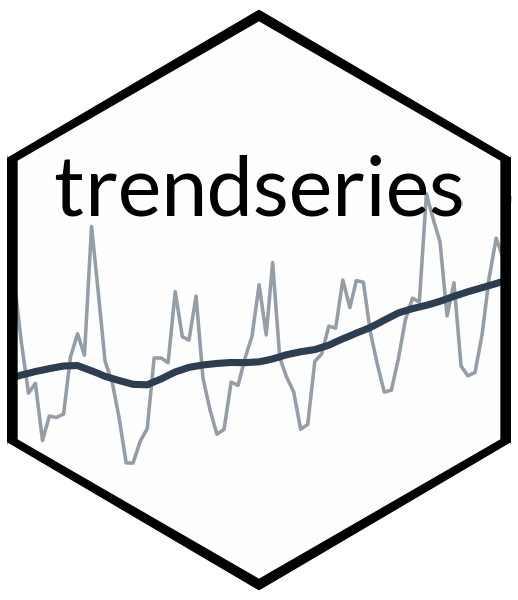
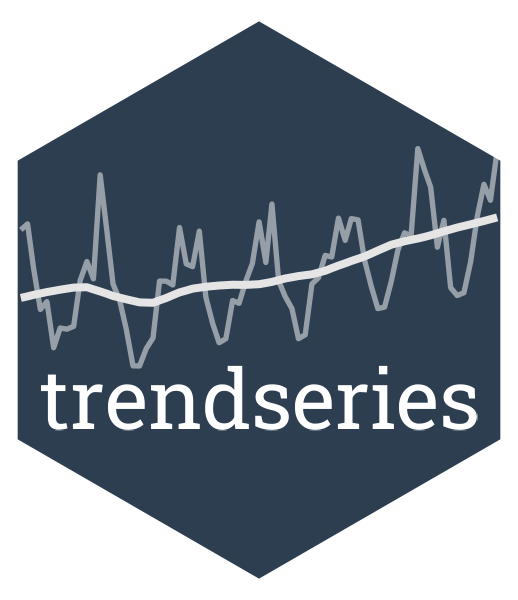
Update hexsticker and build configuration
Update package hexsticker with refreshed design and update build
configuration files. Update CLAUDE.md to reflect current package
status.

Changes:
- Regenerate hexsticker with updated design
- Update .Rbuildignore to exclude additional files
- Update .gitignore patterns
- Update CLAUDE.md with current development status

🤖 Generated with [Claude Code](https://claude.com/claude-code)

diff --git a/CLAUDE.md b/CLAUDE.md
@@ -70,9 +70,7 @@ Trendseries is designed to facilitate exploratory time series analysis for **mon
 - `mFilter`: Econometric filtering methods (Baxter-King, Christiano-Fitzgerald, HP)
 - `cli`: Modern messaging and error handling
 - `RcppRoll`: Fast C++ implementations of rolling statistics (mean, median, etc.)
-- `forecast`: Optimized exponential smoothing (ses, holt) with automatic parameter selection
 - `dlm`: Dynamic linear models and Kalman filtering
-- `signal`: Signal processing including Savitzky-Golay and Butterworth filters
 - `hpfilter`: One-sided and two-sided HP filter implementations
 
 ### Optional Integration
@@ -110,10 +108,8 @@ Trendseries is designed to facilitate exploratory time series analysis for **mon
 - **Completed**: Major package restructure with optimized methods and simplified API
 - **Performance Optimizations**:
   - RcppRoll package for fast C++ rolling statistics (replaces TTR for better performance)
-  - forecast package for optimized exponential smoothing with automatic parameter selection
-  - signal package for Savitzky-Golay and Butterworth filtering
   - dlm package for robust Kalman smoothing
   - hpfilter package for both one-sided and two-sided HP filtering
 - **API**: Unified parameter system (window, smoothing, band, align, params) with reduced function signatures
 - **Focus**: Two-function architecture with modern R practices and economic data optimization
-- **Version**: Ready for 1.0.0 release
+- **Version**: 1.1.0 - Focused on core econometric methods
